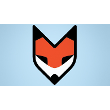
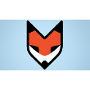
fit ads in screen

diff --git a/public/js/Phaser.js b/public/js/Phaser.js
@@ -58,8 +58,8 @@
   }
 
   function spawnAd() {
-    let xCoord = [80, 400, 80, 400];
-    let yCoord = [60, 60, 300, 300];
+    let xCoord = [70, 402, 70, 402];
+    let yCoord = [60, 60, 248, 248];
     for(let i = 0; i < amtWs; i++) {
       if(workstation[wsArr[i]] === null) {
         workstation[wsArr[i]] = pending.pop();
@@ -67,6 +67,7 @@
         wsList[workstation[wsArr[i]].name] = addedWs;
         i = amtWs;
         addedWs.alpha = 0;
+        addedWs.scale.set(0.6, 0.6);
         timeInMilSecs = timePerAd * 1000;
         game.add.tween(addedWs).to( { alpha: 1 }, timeInMilSecs, Phaser.Easing.Linear.None, true, 0, 1000, true);
       }
@@ -123,11 +124,10 @@
   function update() {
     endGame();
     killAd();
-    spawnAd();
     // time dependent actions go in wait();
-    //wait(() => {
-     // spawnAd(); //added above
-    //}, timePerAd);
+    wait(() => {
+     spawnAd(); //added above
+    }, timePerAd);
   }
 
 })(window.Phaser);
